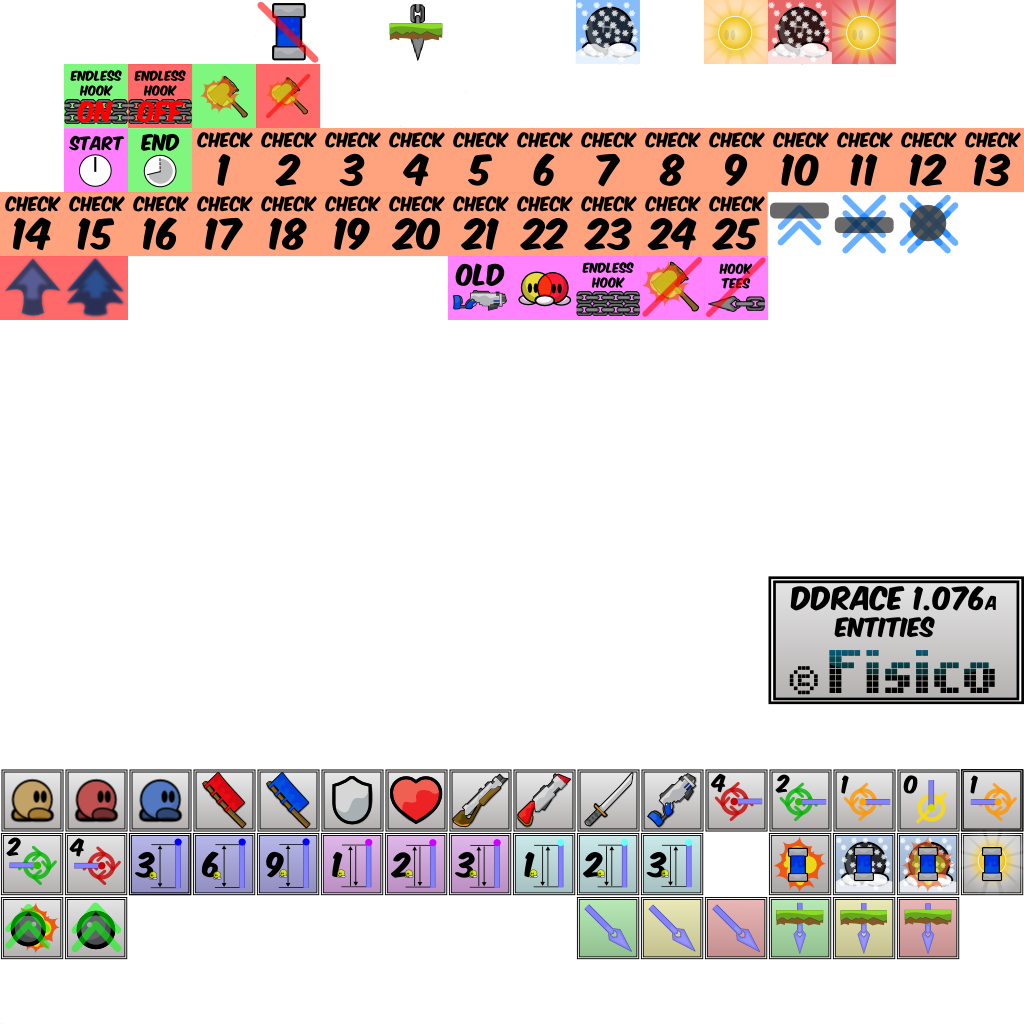
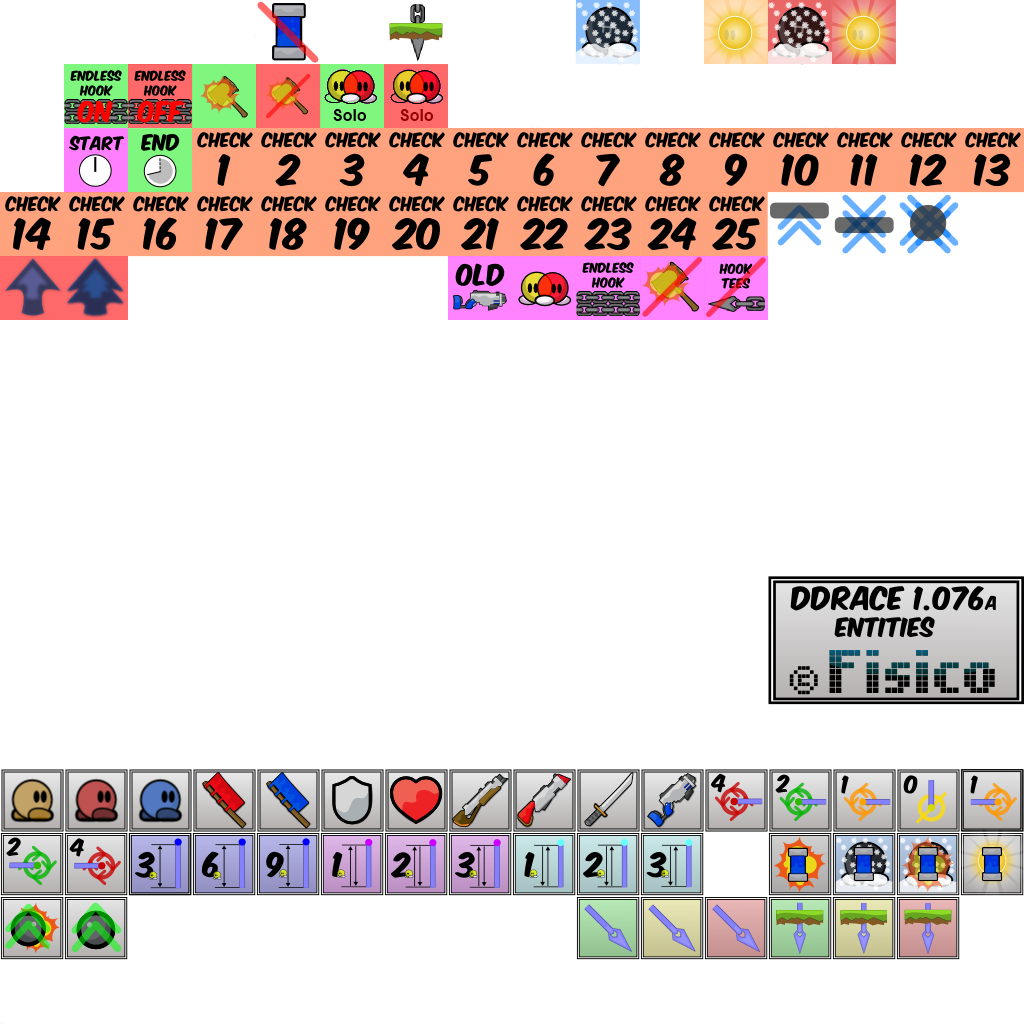
* Added a new tile to facilitate solo parts ( works with teams ) * Can now put tiles with the same indexes as in tele or switch layer i game layer but it will drawn to the correct image * Adjusted Masking to account for Solo players

Changed region(s): [[0.3125, 0.0625, 0.4375, 0.125]]

diff --git a/src/game/server/entities/character.cpp b/src/game/server/entities/character.cpp
@@ -103,7 +103,7 @@ void CCharacter::SetWeapon(int W)
 	m_LastWeapon = m_ActiveWeapon;
 	m_QueuedWeapon = -1;
 	m_ActiveWeapon = W;
-	GameServer()->CreateSound(m_Pos, SOUND_WEAPON_SWITCH, Teams()->TeamMask(Team()));
+	GameServer()->CreateSound(m_Pos, SOUND_WEAPON_SWITCH, Teams()->TeamMask(Team(), -1, m_pPlayer->GetCID()));
 
 	if(m_ActiveWeapon < 0 || m_ActiveWeapon >= NUM_WEAPONS)
 		m_ActiveWeapon = 0;
@@ -183,7 +183,7 @@ void CCharacter::HandleNinja()
 					continue;
 
 				// Hit a player, give him damage and stuffs...
-				GameServer()->CreateSound(aEnts[i]->m_Pos, SOUND_NINJA_HIT, Teams()->TeamMask(Team()));
+				GameServer()->CreateSound(aEnts[i]->m_Pos, SOUND_NINJA_HIT, Teams()->TeamMask(Team(), -1, m_pPlayer->GetCID()));
 				// set his velocity to fast upward (for now)
 				if(m_NumObjectsHit < 10)
 					m_apHitObjects[m_NumObjectsHit++] = aEnts[i];
@@ -290,7 +290,7 @@ void CCharacter::FireWeapon()
 		if(m_PainSoundTimer<=0)
 		{
 				m_PainSoundTimer = 1 * Server()->TickSpeed();
-				GameServer()->CreateSound(m_Pos, SOUND_PLAYER_PAIN_LONG, Teams()->TeamMask(Team()));
+				GameServer()->CreateSound(m_Pos, SOUND_PLAYER_PAIN_LONG, Teams()->TeamMask(Team(), -1, m_pPlayer->GetCID()));
 		}
 		return;
 	}
@@ -303,7 +303,7 @@ void CCharacter::FireWeapon()
 		{
 			// reset objects Hit
 			m_NumObjectsHit = 0;
-			GameServer()->CreateSound(m_Pos, SOUND_HAMMER_FIRE, Teams()->TeamMask(Team()));
+			GameServer()->CreateSound(m_Pos, SOUND_HAMMER_FIRE, Teams()->TeamMask(Team(), -1, m_pPlayer->GetCID()));
 
 			if (m_Hit&DISABLE_HIT_HAMMER) break;
 
@@ -322,9 +322,9 @@ void CCharacter::FireWeapon()
 
 				// set his velocity to fast upward (for now)
 				if(length(pTarget->m_Pos-ProjStartPos) > 0.0f)
-					GameServer()->CreateHammerHit(pTarget->m_Pos-normalize(pTarget->m_Pos-ProjStartPos)*m_ProximityRadius*0.5f, Teams()->TeamMask(Team()));
+					GameServer()->CreateHammerHit(pTarget->m_Pos-normalize(pTarget->m_Pos-ProjStartPos)*m_ProximityRadius*0.5f, Teams()->TeamMask(Team(), -1, m_pPlayer->GetCID()));
 				else
-					GameServer()->CreateHammerHit(ProjStartPos, Teams()->TeamMask(Team()));
+					GameServer()->CreateHammerHit(ProjStartPos, Teams()->TeamMask(Team(), -1, m_pPlayer->GetCID()));
 
 				vec2 Dir;
 				if (length(pTarget->m_Pos - m_Pos) > 0.0f)
@@ -384,7 +384,7 @@ void CCharacter::FireWeapon()
 
 			Server()->SendMsg(&Msg, 0, m_pPlayer->GetCID());
 
-			GameServer()->CreateSound(m_Pos, SOUND_GUN_FIRE, Teams()->TeamMask(Team()));
+			GameServer()->CreateSound(m_Pos, SOUND_GUN_FIRE, Teams()->TeamMask(Team(), -1, m_pPlayer->GetCID()));
 		} break;
 
 		case WEAPON_SHOTGUN:
@@ -420,7 +420,7 @@ void CCharacter::FireWeapon()
 
 			GameServer()->CreateSound(m_Pos, SOUND_SHOTGUN_FIRE);*/
 			new CLaser(&GameServer()->m_World, m_Pos, Direction, GameServer()->Tuning()->m_LaserReach, m_pPlayer->GetCID(), WEAPON_SHOTGUN);
-			GameServer()->CreateSound(m_Pos, SOUND_SHOTGUN_FIRE, Teams()->TeamMask(Team()));
+			GameServer()->CreateSound(m_Pos, SOUND_SHOTGUN_FIRE, Teams()->TeamMask(Team(), -1, m_pPlayer->GetCID()));
 		} break;
 
 		case WEAPON_GRENADE:
@@ -450,13 +450,13 @@ void CCharacter::FireWeapon()
 				Msg.AddInt(((int *)&p)[i]);
 			Server()->SendMsg(&Msg, 0, m_pPlayer->GetCID());
 
-			GameServer()->CreateSound(m_Pos, SOUND_GRENADE_FIRE, Teams()->TeamMask(Team()));
+			GameServer()->CreateSound(m_Pos, SOUND_GRENADE_FIRE, Teams()->TeamMask(Team(), -1, m_pPlayer->GetCID()));
 		} break;
 
 		case WEAPON_RIFLE:
 		{
 			new CLaser(GameWorld(), m_Pos, Direction, GameServer()->Tuning()->m_LaserReach, m_pPlayer->GetCID(), WEAPON_RIFLE);
-			GameServer()->CreateSound(m_Pos, SOUND_RIFLE_FIRE, Teams()->TeamMask(Team()));
+			GameServer()->CreateSound(m_Pos, SOUND_RIFLE_FIRE, Teams()->TeamMask(Team(), -1, m_pPlayer->GetCID()));
 		} break;
 
 		case WEAPON_NINJA:
@@ -468,7 +468,7 @@ void CCharacter::FireWeapon()
 			m_Ninja.m_CurrentMoveTime = g_pData->m_Weapons.m_Ninja.m_Movetime * Server()->TickSpeed() / 1000;
 			m_Ninja.m_OldVelAmount = length(m_Core.m_Vel);
 
-			GameServer()->CreateSound(m_Pos, SOUND_NINJA_FIRE, Teams()->TeamMask(Team()));
+			GameServer()->CreateSound(m_Pos, SOUND_NINJA_FIRE, Teams()->TeamMask(Team(), -1, m_pPlayer->GetCID()));
 		} break;
 
 	}
@@ -549,7 +549,7 @@ void CCharacter::GiveNinja()
 	m_ActiveWeapon = WEAPON_NINJA;
 
 	if(!m_aWeapons[WEAPON_NINJA].m_Got)
-		GameServer()->CreateSound(m_Pos, SOUND_PICKUP_NINJA, Teams()->TeamMask(Team()));
+		GameServer()->CreateSound(m_Pos, SOUND_PICKUP_NINJA, Teams()->TeamMask(Team(), -1, m_pPlayer->GetCID()));
 }
 
 void CCharacter::SetEmote(int Emote, int Tick)
@@ -692,9 +692,9 @@ void CCharacter::TickDefered()
 
 	if(Events&COREEVENT_GROUND_JUMP) GameServer()->CreateSound(m_Pos, SOUND_PLAYER_JUMP, Teams()->TeamMask(Team(), m_pPlayer->GetCID()));
 
-	if(Events&COREEVENT_HOOK_ATTACH_PLAYER) GameServer()->CreateSound(m_Pos, SOUND_HOOK_ATTACH_PLAYER, Teams()->TeamMask(Team()));
-	if(Events&COREEVENT_HOOK_ATTACH_GROUND) GameServer()->CreateSound(m_Pos, SOUND_HOOK_ATTACH_GROUND, Teams()->TeamMask(Team(), m_pPlayer->GetCID()));
-	if(Events&COREEVENT_HOOK_HIT_NOHOOK) GameServer()->CreateSound(m_Pos, SOUND_HOOK_NOATTACH, Teams()->TeamMask(Team(), m_pPlayer->GetCID()));
+	if(Events&COREEVENT_HOOK_ATTACH_PLAYER) GameServer()->CreateSound(m_Pos, SOUND_HOOK_ATTACH_PLAYER, Teams()->TeamMask(Team(), -1, m_pPlayer->GetCID()));
+	if(Events&COREEVENT_HOOK_ATTACH_GROUND) GameServer()->CreateSound(m_Pos, SOUND_HOOK_ATTACH_GROUND, Teams()->TeamMask(Team(), m_pPlayer->GetCID(), m_pPlayer->GetCID()));
+	if(Events&COREEVENT_HOOK_HIT_NOHOOK) GameServer()->CreateSound(m_Pos, SOUND_HOOK_NOATTACH, Teams()->TeamMask(Team(), m_pPlayer->GetCID(), m_pPlayer->GetCID()));
 
 
 	if(m_pPlayer->GetTeam() == TEAM_SPECTATORS)
@@ -760,7 +760,7 @@ void CCharacter::Die(int Killer, int Weapon)
 	Server()->SendPackMsg(&Msg, MSGFLAG_VITAL, -1);
 
 	// a nice sound
-	GameServer()->CreateSound(m_Pos, SOUND_PLAYER_DIE, Teams()->TeamMask(Team()));
+	GameServer()->CreateSound(m_Pos, SOUND_PLAYER_DIE, Teams()->TeamMask(Team(), -1, m_pPlayer->GetCID()));
 
 	// this is for auto respawn after 3 secs
 	m_pPlayer->m_DieTick = Server()->Tick();
@@ -768,7 +768,7 @@ void CCharacter::Die(int Killer, int Weapon)
 	m_Alive = false;
 	GameServer()->m_World.RemoveEntity(this);
 	GameServer()->m_World.m_Core.m_apCharacters[m_pPlayer->GetCID()] = 0;
-	GameServer()->CreateDeath(m_Pos, m_pPlayer->GetCID(), Teams()->TeamMask(Team()));
+	GameServer()->CreateDeath(m_Pos, m_pPlayer->GetCID(), Teams()->TeamMask(Team(), -1, m_pPlayer->GetCID()));
 	if(!m_pPlayer->m_InfoSaved)
 		((CGameControllerDDRace*)GameServer()->m_pController)->m_Teams.SetForceCharacterTeam(m_pPlayer->GetCID(), 0);
 }
@@ -1250,23 +1250,33 @@ void CCharacter::HandleTiles(int Index)
 		m_DeepFreeze = false;
 	if(((m_TileIndex == TILE_EHOOK_START) || (m_TileFIndex == TILE_EHOOK_START)) && !m_EndlessHook)
 	{
-		GameServer()->SendChatTarget(GetPlayer()->GetCID(),"Endless hook has been activated");
+		GameServer()->SendChatTarget(GetPlayer()->GetCID(), "Endless hook has been activated");
 		m_EndlessHook = true;
 	}
 	else if(((m_TileIndex == TILE_EHOOK_END) || (m_TileFIndex == TILE_EHOOK_END)) && m_EndlessHook)
 	{
-		GameServer()->SendChatTarget(GetPlayer()->GetCID(),"Endless hook has been deactivated");
+		GameServer()->SendChatTarget(GetPlayer()->GetCID(), "Endless hook has been deactivated");
 		m_EndlessHook = false;
 	}
 	if(((m_TileIndex == TILE_HIT_START) || (m_TileFIndex == TILE_HIT_START)) && m_Hit != HIT_ALL)
 	{
-		GameServer()->SendChatTarget(GetPlayer()->GetCID(),"You can hit others");
+		GameServer()->SendChatTarget(GetPlayer()->GetCID(), "You can hit others");
 		m_Hit = HIT_ALL;
 	}
 	else if(((m_TileIndex == TILE_HIT_END) || (m_TileFIndex == TILE_HIT_END)) && m_Hit != (DISABLE_HIT_GRENADE|DISABLE_HIT_HAMMER|DISABLE_HIT_RIFLE|DISABLE_HIT_SHOTGUN))
 	{
-		GameServer()->SendChatTarget(GetPlayer()->GetCID(),"You can't hit others");
+		GameServer()->SendChatTarget(GetPlayer()->GetCID(), "You can't hit others");
 		m_Hit = DISABLE_HIT_GRENADE|DISABLE_HIT_HAMMER|DISABLE_HIT_RIFLE|DISABLE_HIT_SHOTGUN;
+	}
+	if(((m_TileIndex == TILE_SOLO_START) || (m_TileFIndex == TILE_SOLO_START)) && !Teams()->m_Core.GetSolo(m_pPlayer->GetCID()))
+	{
+		GameServer()->SendChatTarget(GetPlayer()->GetCID(), "You are now in a solo part.");
+		Teams()->m_Core.SetSolo(m_pPlayer->GetCID(), true);
+	}
+	else if(((m_TileIndex == TILE_SOLO_END) || (m_TileFIndex == TILE_SOLO_END)) && Teams()->m_Core.GetSolo(m_pPlayer->GetCID()))
+	{
+		GameServer()->SendChatTarget(GetPlayer()->GetCID(), "You are now out of the solo part.");
+		Teams()->m_Core.SetSolo(m_pPlayer->GetCID(), false);
 	}
 	if(((m_TileIndex == TILE_STOP && m_TileFlags == ROTATION_270) || (m_TileIndexL == TILE_STOP && m_TileFlagsL == ROTATION_270) || (m_TileIndexL == TILE_STOPS && (m_TileFlagsL == ROTATION_90 || m_TileFlagsL ==ROTATION_270)) || (m_TileIndexL == TILE_STOPA) || (m_TileFIndex == TILE_STOP && m_TileFFlags == ROTATION_270) || (m_TileFIndexL == TILE_STOP && m_TileFFlagsL == ROTATION_270) || (m_TileFIndexL == TILE_STOPS && (m_TileFFlagsL == ROTATION_90 || m_TileFFlagsL == ROTATION_270)) || (m_TileFIndexL == TILE_STOPA) || (m_TileSIndex == TILE_STOP && m_TileSFlags == ROTATION_270) || (m_TileSIndexL == TILE_STOP && m_TileSFlagsL == ROTATION_270) || (m_TileSIndexL == TILE_STOPS && (m_TileSFlagsL == ROTATION_90 || m_TileSFlagsL == ROTATION_270)) || (m_TileSIndexL == TILE_STOPA)) && m_Core.m_Vel.x > 0)
 	{
@@ -1437,7 +1447,7 @@ void CCharacter::DDRaceTick()
 	{
 		if (m_FreezeTime % Server()->TickSpeed() == 0 || m_FreezeTime == -1)
 		{
-			GameServer()->CreateDamageInd(m_Pos, 0, m_FreezeTime / Server()->TickSpeed(), Teams()->TeamMask(Team()));
+			GameServer()->CreateDamageInd(m_Pos, 0, m_FreezeTime / Server()->TickSpeed(), Teams()->TeamMask(Team(), -1, m_pPlayer->GetCID()));
 		}
 		if(m_FreezeTime > 0)
 			m_FreezeTime--;
@@ -1565,4 +1575,5 @@ void CCharacter::DDRaceInit()
 	m_TeleCheckpoint = 0;
 	m_EndlessHook = g_Config.m_SvEndlessDrag;
 	m_Hit = g_Config.m_SvHit ? HIT_ALL : DISABLE_HIT_GRENADE|DISABLE_HIT_HAMMER|DISABLE_HIT_RIFLE|DISABLE_HIT_SHOTGUN;
+	Teams()->m_Core.SetSolo(m_pPlayer->GetCID(), false);
 }

diff --git a/src/game/editor/layer_tiles.cpp b/src/game/editor/layer_tiles.cpp
@@ -329,10 +329,6 @@ void CLayerTiles::BrushDraw(CLayer *pBrush, float wx, float wy)
 			if(fx<0 || fx >= m_Width || fy < 0 || fy >= m_Height)
 				continue;
 
-			// dont allow tele in/out, speedup and switch tiles in game layer
-			if(m_pEditor->GetSelectedLayer(0) == m_pEditor->m_Map.m_pGameLayer && (l->m_pTiles[y*l->m_Width+x].m_Index == TILE_TELEIN || l->m_pTiles[y*l->m_Width+x].m_Index == TILE_TELEINEVIL || l->m_pTiles[y*l->m_Width+x].m_Index == TILE_TELEOUT || l->m_pTiles[y*l->m_Width+x].m_Index == TILE_TELECHECK || l->m_pTiles[y*l->m_Width+x].m_Index == TILE_TELECHECKOUT || l->m_pTiles[y*l->m_Width+x].m_Index == TILE_TELECHECKIN || l->m_pTiles[y*l->m_Width+x].m_Index == TILE_BOOST || l->m_pTiles[y*l->m_Width+x].m_Index == TILE_SWITCHOPEN || l->m_pTiles[y*l->m_Width+x].m_Index == TILE_SWITCHCLOSE || l->m_pTiles[y*l->m_Width+x].m_Index == TILE_SWITCHTIMEDOPEN || l->m_pTiles[y*l->m_Width+x].m_Index == TILE_SWITCHTIMEDCLOSE || l->m_pTiles[y*l->m_Width+x].m_Index == (ENTITY_DOOR + ENTITY_OFFSET)))
-				continue;
-
 			m_pTiles[fy*m_Width+fx] = l->m_pTiles[y*l->m_Width+x];
 		}
 	m_pEditor->m_Map.m_Modified = true;
@@ -1226,9 +1222,6 @@ void CLayerFront::BrushDraw(CLayer *pBrush, float wx, float wy)
 			if(fx<0 || fx >= m_Width || fy < 0 || fy >= m_Height)
 				continue;
 
-			// dont allow tele in and out tiles... same with speedup tile and alot more in front
-			if(m_pEditor->GetSelectedLayer(0) == m_pEditor->m_Map.m_pFrontLayer && ((l->m_pTiles[y*l->m_Width+x].m_Index == TILE_TELEIN || l->m_pTiles[y*l->m_Width+x].m_Index == TILE_TELEINEVIL || l->m_pTiles[y*l->m_Width+x].m_Index == TILE_TELEOUT || l->m_pTiles[y*l->m_Width+x].m_Index == TILE_TELECHECK || l->m_pTiles[y*l->m_Width+x].m_Index == TILE_TELECHECKOUT || l->m_pTiles[y*l->m_Width+x].m_Index == TILE_TELECHECKIN || l->m_pTiles[y*l->m_Width+x].m_Index == TILE_BOOST || l->m_pTiles[y*l->m_Width+x].m_Index == TILE_SWITCHOPEN || l->m_pTiles[y*l->m_Width+x].m_Index == TILE_SWITCHCLOSE  || l->m_pTiles[y*l->m_Width+x].m_Index == TILE_SWITCHTIMEDOPEN  || l->m_pTiles[y*l->m_Width+x].m_Index == TILE_SWITCHTIMEDCLOSE || l->m_pTiles[y*l->m_Width+x].m_Index == (ENTITY_DOOR + ENTITY_OFFSET)) || l->m_pTiles[y*l->m_Width+x].m_Index == (TILE_SOLID) || l->m_pTiles[y*l->m_Width+x].m_Index == (TILE_NOHOOK) || l->m_pTiles[y*l->m_Width+x].m_Index ==TILE_CP || l->m_pTiles[y*l->m_Width+x].m_Index ==TILE_CP_F))
-				continue;
 			m_pTiles[fy*m_Width+fx] = l->m_pTiles[y*l->m_Width+x];
 		}
 	m_pEditor->m_Map.m_Modified = true;

diff --git a/src/game/collision.cpp b/src/game/collision.cpp
@@ -108,7 +108,7 @@ void CCollision::Init(class CLayers *pLayers)
 				}
 
 				// DDRace tiles
-				if(Index == TILE_THROUGH || (Index >= TILE_FREEZE && Index <= TILE_UNFREEZE) || (Index >= TILE_SWITCHOPEN && Index <= TILE_TELECHECKIN) || (Index >= TILE_BEGIN && Index <= TILE_STOPA) || Index == TILE_CP || Index == TILE_CP_F || (Index >= TILE_OLDLASER && Index <= TILE_NPH) || (Index >= TILE_EHOOK_START && Index <= TILE_HIT_END) || (Index >= TILE_DFREEZE && Index <= TILE_DUNFREEZE))
+				if(Index == TILE_THROUGH || (Index >= TILE_FREEZE && Index <= TILE_UNFREEZE) || (Index >= TILE_SWITCHOPEN && Index <= TILE_TELECHECKIN) || (Index >= TILE_BEGIN && Index <= TILE_STOPA) || Index == TILE_CP || Index == TILE_CP_F || (Index >= TILE_OLDLASER && Index <= TILE_NPH) || (Index >= TILE_EHOOK_START && Index <= TILE_SOLO_END) || (Index >= TILE_DFREEZE && Index <= TILE_DUNFREEZE))
 					m_pFront[i].m_Index = Index;
 			}
 		}
@@ -134,7 +134,7 @@ void CCollision::Init(class CLayers *pLayers)
 			}
 
 			// DDRace tiles
-			if(Index == TILE_THROUGH || (Index >= TILE_FREEZE && Index <= TILE_UNFREEZE) || (Index >= TILE_SWITCHOPEN && Index <= TILE_TELECHECKIN) || (Index >= TILE_BEGIN && Index <= TILE_STOPA) || Index == TILE_CP || Index == TILE_CP_F || (Index >= TILE_OLDLASER && Index <= TILE_NPH) || (Index >= TILE_EHOOK_START && Index <= TILE_HIT_END) || (Index >= TILE_DFREEZE && Index <= TILE_DUNFREEZE))
+			if(Index == TILE_THROUGH || (Index >= TILE_FREEZE && Index <= TILE_UNFREEZE) || (Index >= TILE_SWITCHOPEN && Index <= TILE_TELECHECKIN) || (Index >= TILE_BEGIN && Index <= TILE_STOPA) || Index == TILE_CP || Index == TILE_CP_F || (Index >= TILE_OLDLASER && Index <= TILE_NPH) || (Index >= TILE_EHOOK_START && Index <= TILE_SOLO_END) || (Index >= TILE_DFREEZE && Index <= TILE_DUNFREEZE))
 				m_pTiles[i].m_Index = Index;
 		}
 	}

diff --git a/src/game/server/player.cpp b/src/game/server/player.cpp
@@ -322,7 +322,7 @@ void CPlayer::TryRespawn()
 	{
 		m_pCharacter = new(m_ClientID) CCharacter(&GameServer()->m_World);
 		m_pCharacter->Spawn(this, m_PauseInfo.m_Core.m_Pos);
-		GameServer()->CreatePlayerSpawn(m_PauseInfo.m_Core.m_Pos, ((CGameControllerDDRace*)GameServer()->m_pController)->m_Teams.TeamMask((m_PauseInfo.m_Team > 0 && m_PauseInfo.m_Team < TEAM_SUPER) ? m_PauseInfo.m_Team : 0));
+		GameServer()->CreatePlayerSpawn(m_PauseInfo.m_Core.m_Pos, ((CGameControllerDDRace*)GameServer()->m_pController)->m_Teams.TeamMask((m_PauseInfo.m_Team > 0 && m_PauseInfo.m_Team < TEAM_SUPER) ? m_PauseInfo.m_Team : 0, -1, m_ClientID));
 		LoadCharacter();
 	}
 	else
@@ -371,6 +371,7 @@ void CPlayer::LoadCharacter()
 	m_pCharacter->m_TeleCheckpoint = m_PauseInfo.m_TeleCheckpoint;
 	m_pCharacter->m_CpActive = m_PauseInfo.m_CpActive;
 	m_pCharacter->m_Hit = m_PauseInfo.m_Hit;
+	m_pCharacter->Teams()->m_Core.SetSolo(m_ClientID, m_PauseInfo.m_Solo);
 	for(int i = 0; i < NUM_CHECKPOINTS; i++)
 		m_pCharacter->m_CpCurrent[i] = m_PauseInfo.m_CpCurrent[i];
 	((CGameControllerDDRace*)GameServer()->m_pController)->m_Teams.m_Core.Team(GetCID(), m_PauseInfo.m_Team);
@@ -399,6 +400,7 @@ void CPlayer::SaveCharacter()
 	m_PauseInfo.m_TeleCheckpoint = m_pCharacter->m_TeleCheckpoint;
 	m_PauseInfo.m_CpActive = m_pCharacter->m_CpActive;
 	m_PauseInfo.m_Hit = m_pCharacter->m_Hit;
+	m_PauseInfo.m_Solo = m_pCharacter->Teams()->m_Core.GetSolo(m_ClientID);
 	for(int i = 0; i < NUM_CHECKPOINTS; i++)
 		m_PauseInfo.m_CpCurrent[i] = m_pCharacter->m_CpCurrent[i];
 	//m_PauseInfo.m_RefreshTime = m_pCharacter->m_RefreshTime;

diff --git a/src/game/server/teams.cpp b/src/game/server/teams.cpp
@@ -192,13 +192,17 @@ bool CGameTeams::TeamFinished(int Team)
 	return true;
 }
 
-int CGameTeams::TeamMask(int Team, int ExceptID)
+int CGameTeams::TeamMask(int Team, int ExceptID, int Asker)
 {
 	if(Team == TEAM_SUPER) return -1;
+	if(m_Core.GetSolo(Asker) && ExceptID == Asker)
+		return 0;
+	if(m_Core.GetSolo(Asker))
+		return 1 << Asker;
 	int Mask = 0;
 	for(int i = 0; i < MAX_CLIENTS; ++i)
 		if(i != ExceptID)
-			if((Character(i) && (m_Core.Team(i) == Team || m_Core.Team(i) == TEAM_SUPER))
+			if((Asker == i || !m_Core.GetSolo(i)) && (Character(i) && (m_Core.Team(i) == Team || m_Core.Team(i) == TEAM_SUPER))
 				|| (GetPlayer(i) && GetPlayer(i)->GetTeam() == -1))
 				Mask |= 1 << i;
 	return Mask;

diff --git a/src/game/teamscore.cpp b/src/game/teamscore.cpp
@@ -22,13 +22,18 @@ void CTeamsCore::Team(int ClientID, int Team)
 
 bool CTeamsCore::CanCollide(int ClientID1, int ClientID2)
 {
-	if(m_Team[ClientID1] == TEAM_SUPER || m_Team[ClientID2] == TEAM_SUPER)
+	if(m_Team[ClientID1] == TEAM_SUPER || m_Team[ClientID2] == TEAM_SUPER || ClientID1 == ClientID2)
 		return true;
+	if(m_IsSolo[ClientID1] || m_IsSolo[ClientID2])
+		return false;
 	return m_Team[ClientID1] == m_Team[ClientID2];
 }
 
 void CTeamsCore::Reset()
 {
 	for(int i = 0; i < MAX_CLIENTS; ++i)
+	{
 		m_Team[i] = TEAM_FLOCK;
+		m_IsSolo[i] = false;
+	}
 }

diff --git a/src/game/server/entities/laser.cpp b/src/game/server/entities/laser.cpp
@@ -19,7 +19,7 @@ CLaser::CLaser(CGameWorld *pGameWorld, vec2 Pos, vec2 Direction, float StartEner
 	m_Type = Type;
 	GameWorld()->InsertEntity(this);
 	DoBounce();
-	m_TeamMask = GameServer()->GetPlayerChar(Owner) ? GameServer()->GetPlayerChar(Owner)->Teams()->TeamMask(GameServer()->GetPlayerChar(Owner)->Team()) : 0;
+	m_TeamMask = GameServer()->GetPlayerChar(Owner) ? GameServer()->GetPlayerChar(Owner)->Teams()->TeamMask(GameServer()->GetPlayerChar(Owner)->Team(), -1, m_Owner) : 0;
 }
 
 

diff --git a/src/game/server/entities/projectile.cpp b/src/game/server/entities/projectile.cpp
@@ -114,7 +114,7 @@ void CProjectile::Tick()
 	}
 	if (pOwnerChar && pOwnerChar->IsAlive())
 	{
-			TeamMask = pOwnerChar->Teams()->TeamMask( pOwnerChar->Team());
+			TeamMask = pOwnerChar->Teams()->TeamMask(pOwnerChar->Team(), -1, m_Owner);
 	}
 	if( ((pTargetChr && (pOwnerChar ? !(pOwnerChar->m_Hit&CCharacter::DISABLE_HIT_GRENADE) : g_Config.m_SvHit || m_Owner == -1 || pTargetChr == pOwnerChar)) || Collide || GameLayerClipped(CurPos)) && !isWeaponCollide)//TODO:TEAM
 	{

diff --git a/src/game/teamscore.h b/src/game/teamscore.h
@@ -11,8 +11,9 @@ enum
 
 class CTeamsCore
 {
-	
+
 	int m_Team[MAX_CLIENTS];
+	bool m_IsSolo[MAX_CLIENTS];
 public:
 	
 	CTeamsCore(void);
@@ -25,6 +26,8 @@ public:
 	void Team(int ClientID, int Team);
 
 	void Reset();
+	void SetSolo(int ClientID, bool Value) { m_IsSolo[ClientID] = Value; };
+	bool GetSolo(int ClientID) { return m_IsSolo[ClientID]; };
 };
 
 #endif

diff --git a/src/game/server/teams.h b/src/game/server/teams.h
@@ -43,7 +43,7 @@ public:
 	
 	bool TeamFinished(int Team);
 
-	int TeamMask(int Team, int ExceptID = -1);
+	int TeamMask(int Team, int ExceptID = -1, int Asker = -1);
 	
 	int Count(int Team) const;
 	

diff --git a/src/game/mapitems.h b/src/game/mapitems.h
@@ -102,6 +102,8 @@ enum
 	TILE_EHOOK_END,
 	TILE_HIT_START,
 	TILE_HIT_END,
+	TILE_SOLO_START,
+	TILE_SOLO_END,
 	//Switches
 	TILE_SWITCHTIMEDOPEN = 22,
 	TILE_SWITCHTIMEDCLOSE,

diff --git a/src/game/server/player.h b/src/game/server/player.h
@@ -135,6 +135,7 @@ public:
 		int m_CpActive;
 		float m_CpCurrent[25];
 		int m_Hit;
+		bool m_Solo;
 	} m_PauseInfo;
 	int m_ForcePauseTime;
 	bool m_InfoSaved;
